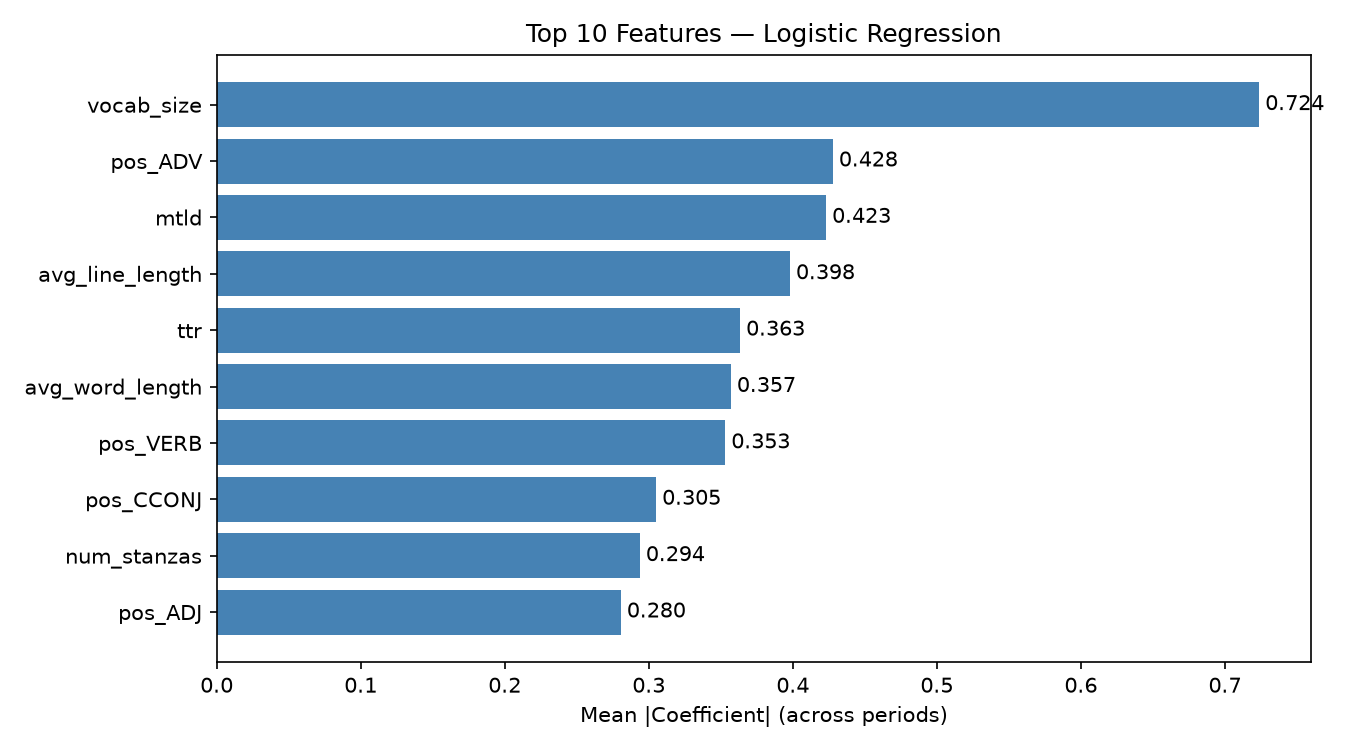
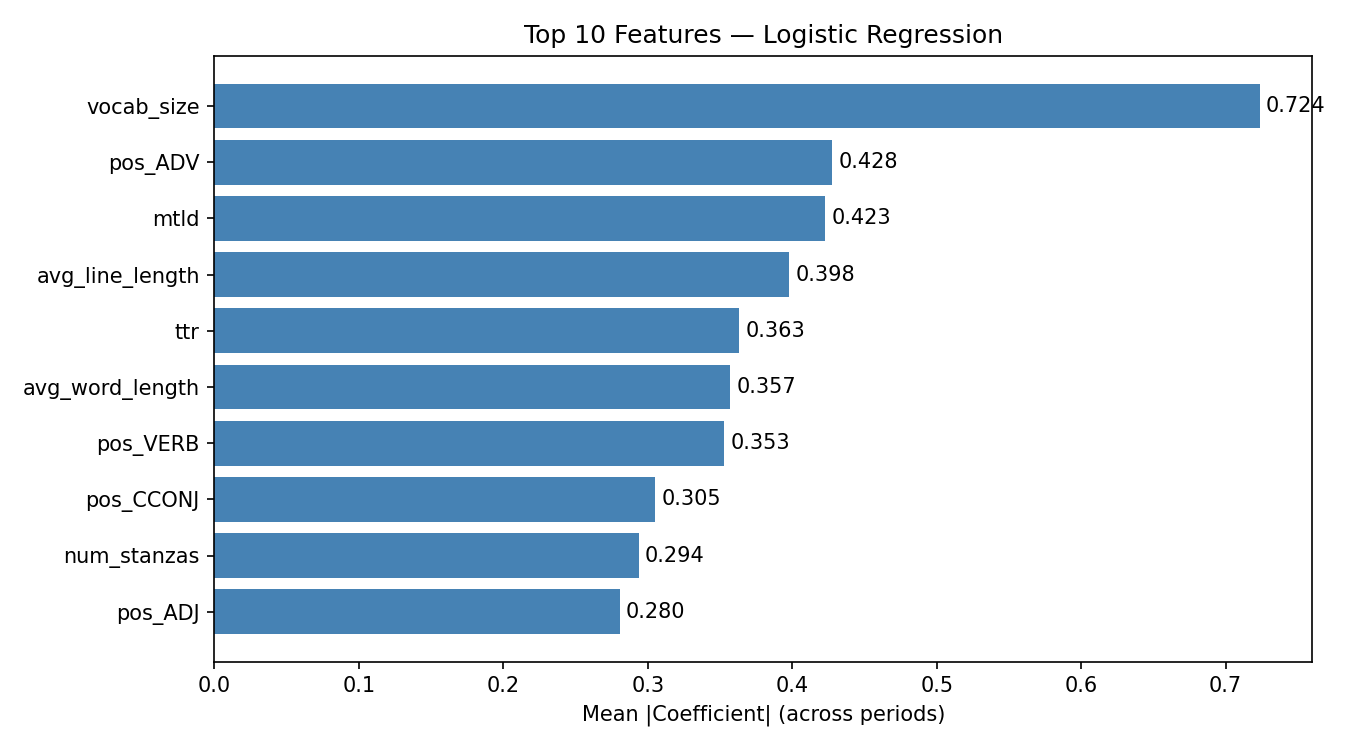
Complete A4 classifier matrix and add KNN/Random Forest
Fills gaps between the plan and what A4 actually implemented: missing
SVM lexical/syntactic runs, a fixed hardcoded BASE_DIR that blocked
re-running the script, and no Track A implementation of the Hay et al.
(2020) paper. Adds KNN (testing style-space proximity per Hay et al.)
and Random Forest (independent nonlinear cross-check on feature
importance) across the existing 23-feature matrix, plus a per-period
feature-means table and a model comparison figure. Extends
test_classifiers.py additively; all 39 Track A tests pass.

diff --git a/notebooks/A4_classifiers.py b/notebooks/A4_classifiers.py
@@ -8,12 +8,14 @@ import matplotlib.pyplot as plt
 import seaborn as sns
 from sklearn.linear_model import LogisticRegression
 from sklearn.svm import SVC
+from sklearn.neighbors import KNeighborsClassifier
+from sklearn.ensemble import RandomForestClassifier
 from sklearn.preprocessing import StandardScaler
 from sklearn.model_selection import StratifiedKFold, cross_val_score
 from sklearn.pipeline import Pipeline
 from sklearn.metrics.pairwise import cosine_similarity
 
-BASE_DIR = "/Users/I771657/Library/CloudStorage/OneDrive-SAPSE/Documents/School/MINI"
+BASE_DIR = os.path.dirname(os.path.dirname(os.path.abspath(__file__)))
 FEATURES_PATH = os.path.join(BASE_DIR, "data", "features.csv")
 RESULTS_PATH = os.path.join(BASE_DIR, "data", "classifier_results.json")
 FIGURES_DIR = os.path.join(BASE_DIR, "figures")
@@ -64,6 +66,15 @@ cv_scores = {
     "lr_lexical":   run_cv(X_lex, LogisticRegression(max_iter=1000, random_state=42), cv, "LR (lexical only)"),
     "lr_syntactic": run_cv(X_syn, LogisticRegression(max_iter=1000, random_state=42), cv, "LR (syntactic only)"),
     "svm_all":      run_cv(X_all, SVC(kernel="rbf", random_state=42), cv, "SVM-RBF (all features)"),
+    "svm_lexical":   run_cv(X_lex, SVC(kernel="rbf", random_state=42), cv, "SVM-RBF (lexical only)"),
+    "svm_syntactic": run_cv(X_syn, SVC(kernel="rbf", random_state=42), cv, "SVM-RBF (syntactic only)"),
+    # k-NN: direct supervised test of Hay et al. (2020) "Representation Learning of
+    # Writing Style" — period is predicted from proximity in the same stylometric
+    # feature space used elsewhere in Track A (not a separate embedding).
+    "knn_all":       run_cv(X_all, KNeighborsClassifier(n_neighbors=5), cv, "KNN (all features)"),
+    "knn_lexical":   run_cv(X_lex, KNeighborsClassifier(n_neighbors=5), cv, "KNN (lexical only)"),
+    "knn_syntactic": run_cv(X_syn, KNeighborsClassifier(n_neighbors=5), cv, "KNN (syntactic only)"),
+    "rf_all":        run_cv(X_all, RandomForestClassifier(n_estimators=200, random_state=42), cv, "Random Forest (all features)"),
 }
 
 # --- Feature importance from LR trained on full data ---
@@ -97,6 +108,30 @@ fig_path = os.path.join(FIGURES_DIR, "A4_feature_importance.png")
 plt.savefig(fig_path, dpi=150)
 plt.close()
 print(f"Saved {fig_path}")
+
+# --- Feature importance from Random Forest (independent, nonlinear cross-check) ---
+print("\n=== Feature importance (Random Forest on full data) ===")
+rf_full = RandomForestClassifier(n_estimators=200, random_state=42)
+rf_full.fit(X_scaled, y)
+
+feature_importance_rf = sorted(
+    zip(FEATURE_COLS, rf_full.feature_importances_.tolist()),
+    key=lambda x: -x[1]
+)
+top_features_rf = [{"feature": f, "importance": round(c, 4)} for f, c in feature_importance_rf]
+print("Top 10 features (Random Forest):")
+for item in top_features_rf[:10]:
+    print(f"  {item['feature']:25s}  importance={item['importance']:.4f}")
+
+# --- Per-period descriptive statistics (classifier-independent evidence of style change) ---
+print("\n=== Feature means by period ===")
+period_means_df = df.groupby("period")[FEATURE_COLS].mean().round(4)
+period_means_df = period_means_df.reindex(["early", "middle", "late"])
+print(period_means_df)
+period_means = {
+    feature: {period: float(period_means_df.loc[period, feature]) for period in ["early", "middle", "late"]}
+    for feature in FEATURE_COLS
+}
 
 # --- Automatic periodization: sliding-window cosine similarity ---
 print("\n=== Sliding-window periodization ===")
@@ -154,10 +189,43 @@ plt.savefig(fig_path, dpi=150)
 plt.close()
 print(f"Saved {fig_path}")
 
+# --- Model comparison chart: accuracy by model x feature subset ---
+print("\n=== Model comparison chart ===")
+subsets = ["lexical", "syntactic", "all"]
+models = ["lr", "svm", "knn"]
+model_labels = {"lr": "Logistic Regression", "svm": "SVM-RBF", "knn": "KNN"}
+colors = {"lr": "steelblue", "svm": "darkorange", "knn": "seagreen"}
+
+fig, ax = plt.subplots(figsize=(9, 5))
+bar_width = 0.25
+x = np.arange(len(subsets))
+for i, model in enumerate(models):
+    means = [cv_scores[f"{model}_{subset}"]["mean"] for subset in subsets]
+    stds = [cv_scores[f"{model}_{subset}"]["std"] for subset in subsets]
+    ax.bar(x + (i - 1) * bar_width, means, bar_width, yerr=stds, capsize=3,
+           label=model_labels[model], color=colors[model])
+# Random Forest was only run on the "all" subset - plot it as a single reference bar
+rf_x = x[subsets.index("all")] + 2 * bar_width
+ax.bar(rf_x, cv_scores["rf_all"]["mean"], bar_width, yerr=cv_scores["rf_all"]["std"],
+       capsize=3, label="Random Forest (all)", color="mediumpurple")
+ax.axhline(1 / 3, color="gray", linestyle=":", linewidth=1, label="Chance baseline (1/3)")
+ax.set_xticks(x)
+ax.set_xticklabels([s.capitalize() for s in subsets])
+ax.set_ylabel("5-fold CV accuracy")
+ax.set_title("Model Comparison — Accuracy by Feature Subset")
+ax.legend(fontsize=8)
+plt.tight_layout()
+fig_path = os.path.join(FIGURES_DIR, "A4_model_comparison.png")
+plt.savefig(fig_path, dpi=150)
+plt.close()
+print(f"Saved {fig_path}")
+
 # --- Save results ---
 results = {
     "cv_scores": cv_scores,
     "top_features": top_features,
+    "top_features_rf": top_features_rf,
+    "period_means": period_means,
     "turning_points": turning_points,
 }
 with open(RESULTS_PATH, "w", encoding="utf-8") as f:

diff --git a/tests/test_classifiers.py b/tests/test_classifiers.py
@@ -17,7 +17,7 @@ def test_results_file_exists():
 
 def test_results_has_required_keys():
     r = load_results()
-    required = {"cv_scores", "top_features", "turning_points"}
+    required = {"cv_scores", "top_features", "top_features_rf", "period_means", "turning_points"}
     missing = required - set(r.keys())
     assert not missing, f"Missing keys: {missing}"
 
@@ -25,7 +25,12 @@ def test_results_has_required_keys():
 def test_cv_scores_structure():
     r = load_results()
     cv = r["cv_scores"]
-    required_models = {"lr_all", "lr_lexical", "lr_syntactic", "svm_all"}
+    required_models = {
+        "lr_all", "lr_lexical", "lr_syntactic",
+        "svm_all", "svm_lexical", "svm_syntactic",
+        "knn_all", "knn_lexical", "knn_syntactic",
+        "rf_all",
+    }
     missing = required_models - set(cv.keys())
     assert not missing, f"Missing model keys in cv_scores: {missing}"
     for model_key, scores in cv.items():
@@ -43,6 +48,29 @@ def test_top_features_structure():
     for item in top:
         assert "feature" in item, f"top_features item missing 'feature': {item}"
         assert "coefficient" in item, f"top_features item missing 'coefficient': {item}"
+
+
+def test_top_features_rf_structure():
+    r = load_results()
+    top = r["top_features_rf"]
+    assert isinstance(top, list), "top_features_rf must be a list"
+    assert len(top) >= 5, f"Expected at least 5 top features, got {len(top)}"
+    for item in top:
+        assert "feature" in item, f"top_features_rf item missing 'feature': {item}"
+        assert "importance" in item, f"top_features_rf item missing 'importance': {item}"
+
+
+def test_period_means_structure():
+    r = load_results()
+    period_means = r["period_means"]
+    assert isinstance(period_means, dict), "period_means must be a dict"
+    assert len(period_means) > 0, "period_means must not be empty"
+    expected_periods = {"early", "middle", "late"}
+    for feature, values in period_means.items():
+        missing = expected_periods - set(values.keys())
+        assert not missing, f"period_means['{feature}'] missing periods: {missing}"
+        for period, value in values.items():
+            assert isinstance(value, (int, float)), f"period_means['{feature}']['{period}'] not numeric: {value}"
 
 
 def test_turning_points_structure():
@@ -64,3 +92,8 @@ def test_feature_importance_figure_exists():
 def test_period_similarity_figure_exists():
     path = os.path.join(FIGURES_DIR, "A4_period_similarity.png")
     assert os.path.exists(path), "figures/A4_period_similarity.png not found"
+
+
+def test_model_comparison_figure_exists():
+    path = os.path.join(FIGURES_DIR, "A4_model_comparison.png")
+    assert os.path.exists(path), "figures/A4_model_comparison.png not found"

diff --git a/docs/project-plan.md b/docs/project-plan.md
@@ -26,7 +26,7 @@ The goal of this project is to detect turning points in the writing style of Shl
 - **A1**: `data/corpus.json` — 167 songs, fields: song_id, title, year, album, word_count, line_count, text. Tested by `tests/test_corpus.py` (10 tests).
 - **A2**: `data/parsed/001.json` … `167.json` — DictaBERT tiny-joint morphological + NER parse per song (token lemma, POS, dependency, NER entities). Tested by `tests/test_parsed.py` (6 tests).
 - **A3**: `data/features.csv` — 167 × 23 feature matrix (TTR, MTLD, avg word/line length, vocab size, 8 POS ratios, verb/noun ratio, function word ratio, first-person ratio, line/stanza counts, repetition rate). Tested by `tests/test_features.py` (13 tests).
-- **A4**: `data/classifier_results.json`, `figures/A4_feature_importance.png`, `figures/A4_period_similarity.png` — 5-fold cross-validated LR and SVM classifiers (best: SVM-RBF 62.9% vs 36% baseline); top features: vocab_size, pos_ADV, MTLD; automatic periodization detected turning points at 1979 and 1988. Tested by `tests/test_classifiers.py` (7 tests).
+- **A4**: `data/classifier_results.json`, `figures/A4_feature_importance.png`, `figures/A4_period_similarity.png`, `figures/A4_model_comparison.png` — 5-fold cross-validated LR, SVM, KNN (each on lexical/syntactic/all feature subsets) and Random Forest (all features) classifiers (best: Random Forest 63.0% and SVM-RBF 62.9%, both vs 36% baseline); top features cross-checked by two independent models — LR coefficients: vocab_size, pos_ADV, MTLD; RF importances: MTLD, verb_noun_ratio, avg_line_length — largely agree. Per-period feature means (`period_means`) show TTR rising 0.503→0.545→0.559 and MTLD rising 51.7→72.9→90.7 across early/middle/late, direct descriptive evidence of style change. The KNN classifier is a supervised implementation of the third paper (Hay et al. 2020, "Representation Learning of Writing Style," `article.txt`) — period predicted from proximity in the same stylometric feature space, giving Track A its own citable implementation of all 3 required papers instead of 2. Automatic periodization (Alsudais method) detected turning points at 1979, 1988, 1992. Tested by `tests/test_classifiers.py` (10 tests).
 
 ---
 
